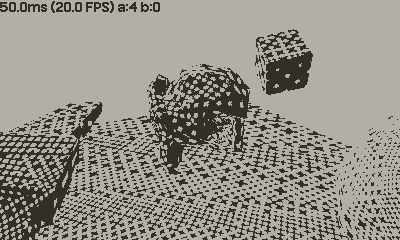
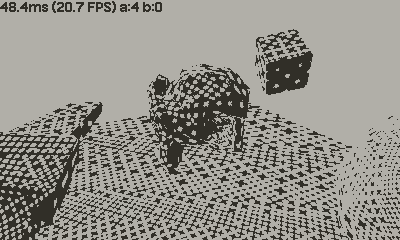
Write out 32 pixels at once in dither3d-scanline. 48ms

Changed region(s): [[0.0, 0.0, 0.42, 0.0583]]

diff --git a/src/render.c b/src/render.c
@@ -1285,6 +1285,11 @@ static void draw_scanline_dither3d(uint8_t* bitmap, int rowstride,
 
 	int X = line.x_start;
 	bitmap += edge_l->Y * rowstride;
+	// write out pixels 32 at a time
+	uint32_t mask = 0;
+	uint32_t* p = (uint32_t*)bitmap + X / 32;
+	uint32_t color = 0;
+
 
 	const fixed16_16 spacing_l = FloatToFixed16_16(spc_l->sz / edge_l->invz);
 	const fixed16_16 spacing_r = FloatToFixed16_16(spc_r->sz / edge_r->invz);
@@ -1304,15 +1309,27 @@ static void draw_scanline_dither3d(uint8_t* bitmap, int rowstride,
 			//dbg = patternScaleLevel_i / 16.0f;
 			//dbg = subLayer_offset / (float)(DITHER_RES * DITHER_SLICES);
 			bool check = do_pixel_sample_16_16(line.U, line.V, patternScaleLevel_i, subLayer_offset, compare_val, X, edge_l->Y, dbg);
-			int bit_mask = 1 << (7 - (X & 7));
-			if (check)
-				bitmap[X / 8] &= ~bit_mask;
-			else
-				bitmap[X / 8] |= bit_mask;
+
+			//int bit_mask = 1 << (7 - (X & 7));
+			//if (check)
+			//	bitmap[X / 8] &= ~bit_mask;
+			//else
+			//	bitmap[X / 8] |= bit_mask;
+			mask |= 0x80000000u >> (X & 31);
+			uint32_t texpix = check ? 0x0 : 0x80;
+			color |= (texpix << 24) >> (X % 32);
+
 
 			X++;
 			spacing += spacing_step;
 			raster_scanline_inner_step(&line);
+
+			if (X % 32 == 0)
+			{
+				_drawMaskPattern(p++, swap(mask), swap(color));
+				mask = 0;
+				color = 0;
+			}
 		}
 		raster_scanline_spans_step(&line);
 	}
@@ -1328,17 +1345,30 @@ static void draw_scanline_dither3d(uint8_t* bitmap, int rowstride,
 			//dbg = patternScaleLevel_i / 16.0f;
 			//dbg = subLayer_offset / (float)(DITHER_RES * DITHER_SLICES);
 			bool check = do_pixel_sample_16_16(line.U, line.V, patternScaleLevel_i, subLayer_offset, compare_val, X, edge_l->Y, dbg);
-			int bit_mask = 1 << (7 - (X & 7));
-			if (check)
-				bitmap[X / 8] &= ~bit_mask;
-			else
-				bitmap[X / 8] |= bit_mask;
+
+			//int bit_mask = 1 << (7 - (X & 7));
+			//if (check)
+			//	bitmap[X / 8] &= ~bit_mask;
+			//else
+			//	bitmap[X / 8] |= bit_mask;
+			mask |= 0x80000000u >> (X & 31);
+			uint32_t texpix = check ? 0x0 : 0x80;
+			color |= (texpix << 24) >> (X % 32);
 
 			X++;
 			spacing += spacing_step;
 			raster_scanline_inner_step(&line);
+
+			if (X % 32 == 0)
+			{
+				_drawMaskPattern(p++, swap(mask), swap(color));
+				mask = 0;
+				color = 0;
+			}
 		}
 	}
+
+	_drawMaskPattern(p, swap(mask), swap(color));
 }
 
 static void spacing_gradients_init(spacing_gradients* t, const float3* p0, const float3* p1, const float3* p2, const float uvs[6], const tri_gradients* grad, const float spacingMul)

diff --git a/src/render.h b/src/render.h
@@ -67,6 +67,7 @@ enum DrawStyle {
 	// 60ms device, calc spacing at vertices, interpolate
 	// 56ms device, simpler spacing interpolation
 	// 50ms device, directly do 3D lookup math from fixed point UVs
+	// 48ms device, write 32 pixels
 	Draw_Dither3D_Scanline,
 
 	// 605ms device, 5.8ms PC

diff --git a/readme.md b/readme.md
@@ -30,7 +30,7 @@ Current status:
 - I have two rasterizer approaches:
   - Traditional "scanline" one, very much like in Chris Hecker's 1995/1996 article series. Perspective correct
     UV interpolation is done every 8 pixels. The dither pattern spacing is calculated only at triangle vertices
-    and interpolated across. Runs at 50ms/frame, code in `draw_triangle_dither3d_scanline`.
+    and interpolated across. Runs at 48ms/frame, code in `draw_triangle_dither3d_scanline`.
   - Halfspace/barycentric one, processing 2x2 pixel blocks in one iteration, and doing perspective
     correct UV interpolation every 2 pixels horizontally. Runs at 63ms/frame, code in `draw_triangle_dither3d_halfspace`.
 - It is entirely possible that there's a ton of low hanging fruit w.r.t. optimizations that I have
